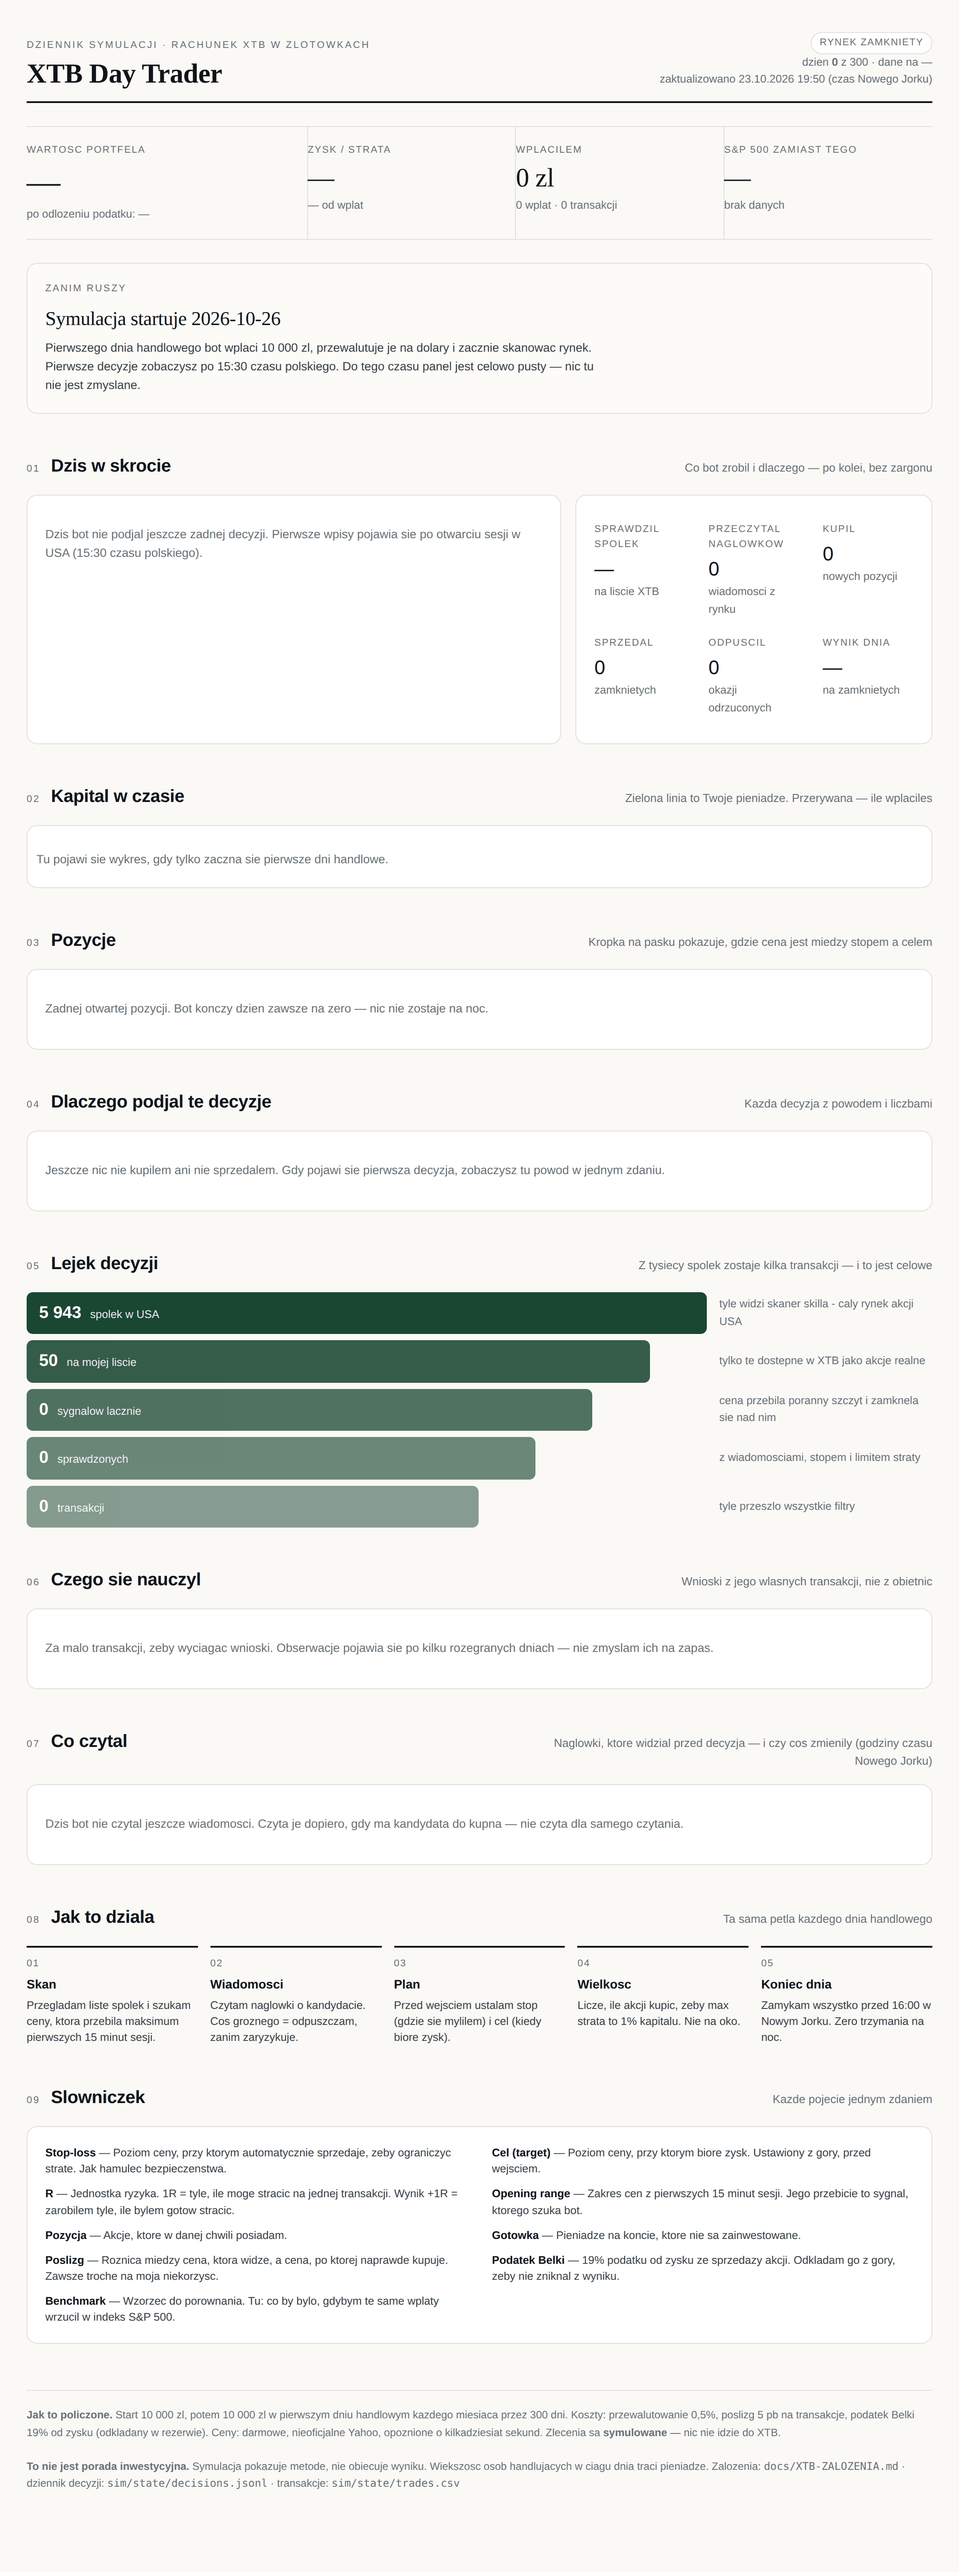
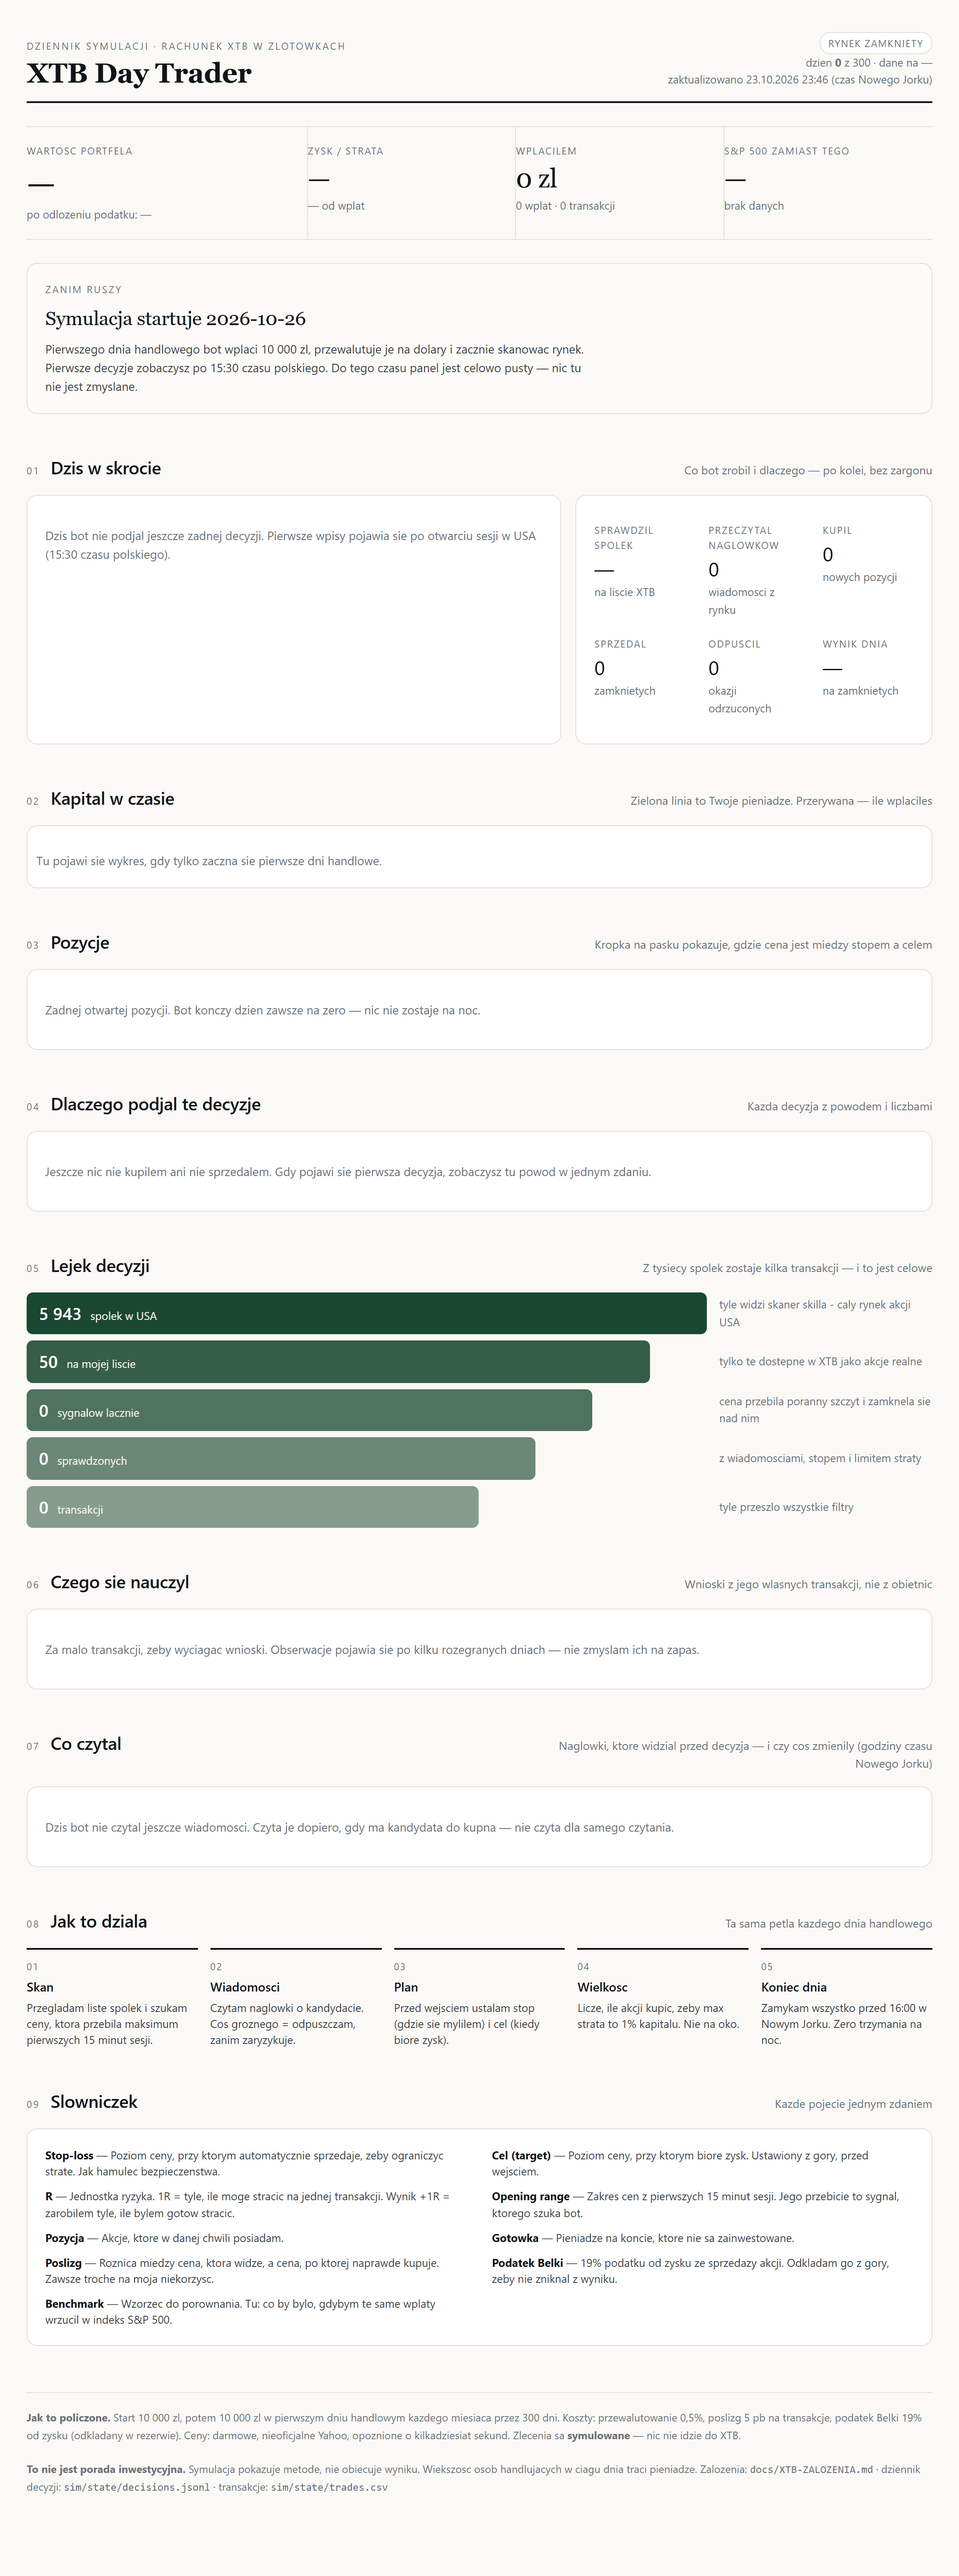
Panel: pasek nawigacji po sekcjach (widoczny w przegladarce, ukryty na zrzucie PNG)

diff --git a/docs/index.html b/docs/index.html
@@ -1,6 +1,7 @@
 <!doctype html>
 <html lang="pl"><head><meta charset="utf-8">
 <meta name="viewport" content="width=device-width,initial-scale=1">
+<meta name="description" content="Dziennik symulacji inwestowania: co bot zrobil i dlaczego.">
 <title>XTB Day Trader — dziennik symulacji</title>
 <style>
 :root{
@@ -41,7 +42,14 @@ a:hover{text-decoration:underline}
 .up{color:var(--up)}.down{color:var(--down)}
 
 /* --- sekcje --- */
-section{margin-top:44px}
+section{margin-top:44px;scroll-margin-top:64px}
+.toc{position:sticky;top:0;z-index:20;background:rgba(250,249,246,.94);
+  -webkit-backdrop-filter:blur(10px);backdrop-filter:blur(10px);
+  border-bottom:1px solid var(--line);margin:0 -30px 4px;padding:11px 30px;
+  display:flex;gap:16px;flex-wrap:wrap;font-size:12.5px}
+.toc a{color:var(--muted);text-decoration:none;white-space:nowrap}
+.toc a:hover{color:var(--ink)}
+.toc b{font-weight:600;color:var(--ink)}
 .sec-h{display:flex;align-items:baseline;gap:12px;margin-bottom:16px}
 .sec-h .idx{font-size:11px;letter-spacing:.14em;color:var(--muted);padding-top:3px}
 .sec-h h2{font-size:20px;margin:0;font-weight:600;letter-spacing:-0.01em}
@@ -159,7 +167,7 @@ footer{margin-top:52px;border-top:1px solid var(--line);padding-top:18px;
   <div class="right">
     <span class="pill shut">rynek zamkniety</span><br>
     dzien <b>0</b> z 300 &middot; dane na —<br>
-    zaktualizowano 23.10.2026 19:50 (czas Nowego Jorku)
+    zaktualizowano 23.10.2026 23:46 (czas Nowego Jorku)
   </div>
 </div><div class="kpis">
   <div class="kpi">
@@ -182,7 +190,7 @@ footer{margin-top:52px;border-top:1px solid var(--line);padding-top:18px;
     <div class="v serif">—</div>
     <div class="n">brak danych</div>
   </div>
-</div><div class="card" style="margin-top:26px;background:#FCFBF7">
+</div><nav class="toc"><b>W tym raporcie:</b><a href="#s1">Dzis</a><a href="#s2">Kapital</a><a href="#s3">Pozycje</a><a href="#s4">Dlaczego</a><a href="#s5">Lejek</a><a href="#s6">Czego sie nauczyl</a><a href="#s7">Co czytal</a><a href="#s8">Jak dziala</a><a href="#s9">Slowniczek</a></nav><div class="card" style="margin-top:26px;background:#FCFBF7">
   <div style="font-size:11px;letter-spacing:.14em;text-transform:uppercase;color:var(--muted)">Zanim ruszy</div>
   <div class="serif" style="font-size:22px;margin:8px 0 6px">Symulacja startuje 2026-10-26</div>
   <div style="font-size:13.5px;color:#3A3F45;max-width:620px">
@@ -190,7 +198,7 @@ footer{margin-top:52px;border-top:1px solid var(--line);padding-top:18px;
     i zacznie skanowac rynek. Pierwsze decyzje zobaczysz po 15:30 czasu polskiego.
     Do tego czasu panel jest celowo pusty — nic tu nie jest zmyslane.
   </div>
-</div><section>
+</div><section id="s1">
   <div class="sec-h"><span class="idx">01</span><h2>Dzis w skrocie</h2>
     <span class="sub">Co bot zrobil i dlaczego — po kolei, bez zargonu</span></div>
   <div class="grid2" style="grid-template-columns:1.5fr 1fr;gap:16px">
@@ -215,20 +223,20 @@ footer{margin-top:52px;border-top:1px solid var(--line);padding-top:18px;
       <div class="v" style="font-size:22px">—</div>
       <div class="n">na zamknietych</div></div></div></div>
   </div>
-</section><section>
+</section><section id="s2">
   <div class="sec-h"><span class="idx">02</span><h2>Kapital w czasie</h2>
     <span class="sub">Zielona linia to Twoje pieniadze. Przerywana — ile wplaciles</span></div>
   <div class="card" style="padding:14px 10px 6px"><div class="empty">Tu pojawi sie wykres, gdy tylko zaczna sie pierwsze dni handlowe.</div></div>
-</section><section>
+</section><section id="s3">
   <div class="sec-h"><span class="idx">03</span><h2>Pozycje</h2>
     <span class="sub">Kropka na pasku pokazuje, gdzie cena jest miedzy stopem a celem</span></div>
   <div class="card"><div class="empty">Zadnej otwartej pozycji. Bot konczy dzien zawsze na zero — nic nie zostaje na noc.</div></div>
   
-</section><section>
+</section><section id="s4">
   <div class="sec-h"><span class="idx">04</span><h2>Dlaczego podjal te decyzje</h2>
     <span class="sub">Kazda decyzja z powodem i liczbami</span></div>
   <div class="card"><div class="empty">Jeszcze nic nie kupilem ani nie sprzedalem. Gdy pojawi sie pierwsza decyzja, zobaczysz tu powod w jednym zdaniu.</div></div>
-</section><section>
+</section><section id="s5">
   <div class="sec-h"><span class="idx">05</span><h2>Lejek decyzji</h2>
     <span class="sub">Z tysiecy spolek zostaje kilka transakcji — i to jest celowe</span></div>
   <div class="fn"><div class="fn-row">
@@ -257,15 +265,15 @@ footer{margin-top:52px;border-top:1px solid var(--line);padding-top:18px;
   </div>
   <div class="fn-note">tyle przeszlo wszystkie filtry</div>
 </div></div>
-</section><section>
+</section><section id="s6">
   <div class="sec-h"><span class="idx">06</span><h2>Czego sie nauczyl</h2>
     <span class="sub">Wnioski z jego wlasnych transakcji, nie z obietnic</span></div>
   <div class="card"><div class="empty">Za malo transakcji, zeby wyciagac wnioski. Obserwacje pojawia sie po kilku rozegranych dniach — nie zmyslam ich na zapas.</div></div>
-</section><section>
+</section><section id="s7">
   <div class="sec-h"><span class="idx">07</span><h2>Co czytal</h2>
     <span class="sub">Naglowki, ktore widzial przed decyzja — i czy cos zmienily (godziny czasu Nowego Jorku)</span></div>
   <div class="card"><div class="empty">Dzis bot nie czytal jeszcze wiadomosci. Czyta je dopiero, gdy ma kandydata do kupna — nie czyta dla samego czytania.</div></div>
-</section><section>
+</section><section id="s8">
   <div class="sec-h"><span class="idx">08</span><h2>Jak to dziala</h2>
     <span class="sub">Ta sama petla kazdego dnia handlowego</span></div>
   <div class="steps"><div class="step"><div class="n">01</div>
@@ -274,7 +282,7 @@ footer{margin-top:52px;border-top:1px solid var(--line);padding-top:18px;
       <div class="h">Plan</div><div class="d">Przed wejsciem ustalam stop (gdzie sie mylilem) i cel (kiedy biore zysk).</div></div><div class="step"><div class="n">04</div>
       <div class="h">Wielkosc</div><div class="d">Licze, ile akcji kupic, zeby max strata to 1% kapitalu. Nie na oko.</div></div><div class="step"><div class="n">05</div>
       <div class="h">Koniec dnia</div><div class="d">Zamykam wszystko przed 16:00 w Nowym Jorku. Zero trzymania na noc.</div></div></div>
-</section><section>
+</section><section id="s9">
   <div class="sec-h"><span class="idx">09</span><h2>Slowniczek</h2>
     <span class="sub">Kazde pojecie jednym zdaniem</span></div>
   <div class="card"><div class="gloss"><div><b>Stop-loss</b> <span>— Poziom ceny, przy ktorym automatycznie sprzedaje, zeby ograniczyc strate. Jak hamulec bezpieczenstwa.</span></div><div><b>Cel (target)</b> <span>— Poziom ceny, przy ktorym biore zysk. Ustawiony z gory, przed wejsciem.</span></div><div><b>R</b> <span>— Jednostka ryzyka. 1R = tyle, ile moge stracic na jednej transakcji. Wynik +1R = zarobilem tyle, ile bylem gotow stracic.</span></div><div><b>Opening range</b> <span>— Zakres cen z pierwszych 15 minut sesji. Jego przebicie to sygnal, ktorego szuka bot.</span></div><div><b>Pozycja</b> <span>— Akcje, ktore w danej chwili posiadam.</span></div><div><b>Gotowka</b> <span>— Pieniadze na koncie, ktore nie sa zainwestowane.</span></div><div><b>Poslizg</b> <span>— Roznica miedzy cena, ktora widze, a cena, po ktorej naprawde kupuje. Zawsze troche na moja niekorzysc.</span></div><div><b>Podatek Belki</b> <span>— 19% podatku od zysku ze sprzedazy akcji. Odkladam go z gory, zeby nie zniknal z wyniku.</span></div><div><b>Benchmark</b> <span>— Wzorzec do porownania. Tu: co by bylo, gdybym te same wplaty wrzucil w indeks S&amp;P 500.</span></div></div></div>

diff --git a/sim/dashboard.py b/sim/dashboard.py
@@ -61,7 +61,14 @@ a:hover{text-decoration:underline}
 .up{color:var(--up)}.down{color:var(--down)}
 
 /* --- sekcje --- */
-section{margin-top:44px}
+section{margin-top:44px;scroll-margin-top:64px}
+.toc{position:sticky;top:0;z-index:20;background:rgba(250,249,246,.94);
+  -webkit-backdrop-filter:blur(10px);backdrop-filter:blur(10px);
+  border-bottom:1px solid var(--line);margin:0 -30px 4px;padding:11px 30px;
+  display:flex;gap:16px;flex-wrap:wrap;font-size:12.5px}
+.toc a{color:var(--muted);text-decoration:none;white-space:nowrap}
+.toc a:hover{color:var(--ink)}
+.toc b{font-weight:600;color:var(--ink)}
 .sec-h{display:flex;align-items:baseline;gap:12px;margin-bottom:16px}
 .sec-h .idx{font-size:11px;letter-spacing:.14em;color:var(--muted);padding-top:3px}
 .sec-h h2{font-size:20px;margin:0;font-weight:600;letter-spacing:-0.01em}
@@ -304,6 +311,19 @@ def _today_balance(decisions: list[dict], trades: list[dict]) -> str:
       <div class="v" style="font-size:22px">{esc(v)}</div>
       <div class="n">{esc(s)}</div></div>''' for l, v, s in items)
     return f'<div class="grid3" style="gap:0 26px">{cells}</div>'
+
+
+TOC = [
+    ("s1", "Dzis"), ("s2", "Kapital"), ("s3", "Pozycje"), ("s4", "Dlaczego"),
+    ("s5", "Lejek"), ("s6", "Czego sie nauczyl"), ("s7", "Co czytal"),
+    ("s8", "Jak dziala"), ("s9", "Slowniczek"),
+]
+
+
+def _toc() -> str:
+    """Pasek nawigacji - dziala w przegladarce; na zrzucie PNG jest ukrywany."""
+    links = "".join('<a href="#%s">%s</a>' % (i, esc(t)) for i, t in TOC)
+    return f'<nav class="toc"><b>W tym raporcie:</b>{links}</nav>'
 
 
 def _timeline(actions: list[dict]) -> str:
@@ -559,6 +579,7 @@ def build(sim: dict, cfg: dict) -> str:
     body = []
     body.append(_masthead(sim, cfg, equity))
     body.append(_kpis(sim, cfg, equity, trades))
+    body.append(_toc())
     if not dep and not trades:
         body.append(_empty_intro(cfg))
 
@@ -622,13 +643,21 @@ def build(sim: dict, cfg: dict) -> str:
 
     body.append(_footer(sim, cfg))
 
+    # numerujemy sekcje, zeby pasek nawigacji mial do czego prowadzic
+    page = "".join(body)
+    parts = page.split("<section>")
+    if len(parts) == len(TOC) + 1:
+        page = parts[0] + "".join(
+            '<section id="%s">%s' % (TOC[i][0], chunk) for i, chunk in enumerate(parts[1:]))
+
     html = f'''<!doctype html>
 <html lang="pl"><head><meta charset="utf-8">
 <meta name="viewport" content="width=device-width,initial-scale=1">
+<meta name="description" content="Dziennik symulacji inwestowania: co bot zrobil i dlaczego.">
 <title>XTB Day Trader — dziennik symulacji</title>
 <style>{CSS}</style></head>
 <body><div class="wrap">
-{''.join(body)}
+{page}
 </div></body></html>'''
 
     out = store.p(store.ROOT, "docs", "index.html")

diff --git a/sim/render.py b/sim/render.py
@@ -79,6 +79,8 @@ def to_png(html_path: str, png_path: str, width: int = VIEWPORT, scale: int = SC
                 device_scale_factor=scale,
             )
             page.goto("file://" + os.path.abspath(html_path), wait_until="load")
+            # na obrazku linki nie dzialaja - pasek nawigacji bylby mylacy
+            page.add_style_tag(content=".toc{display:none!important}")
             page.wait_for_timeout(500)
             page.screenshot(path=png_path, full_page=True)
             browser.close()
